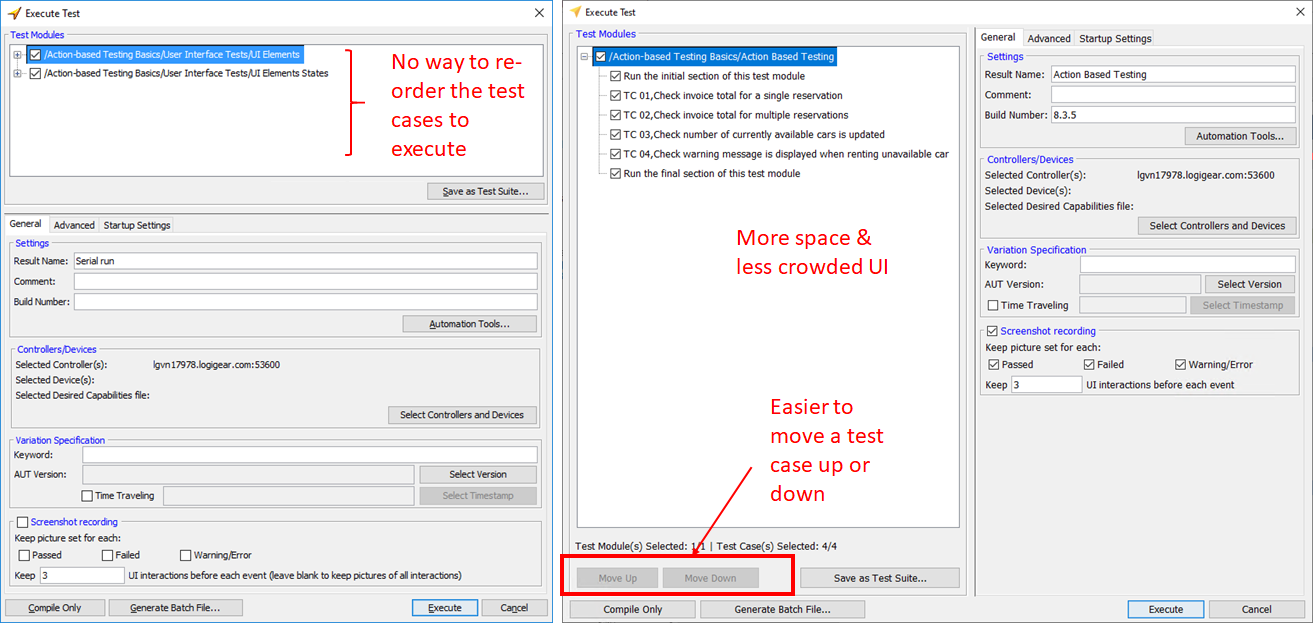
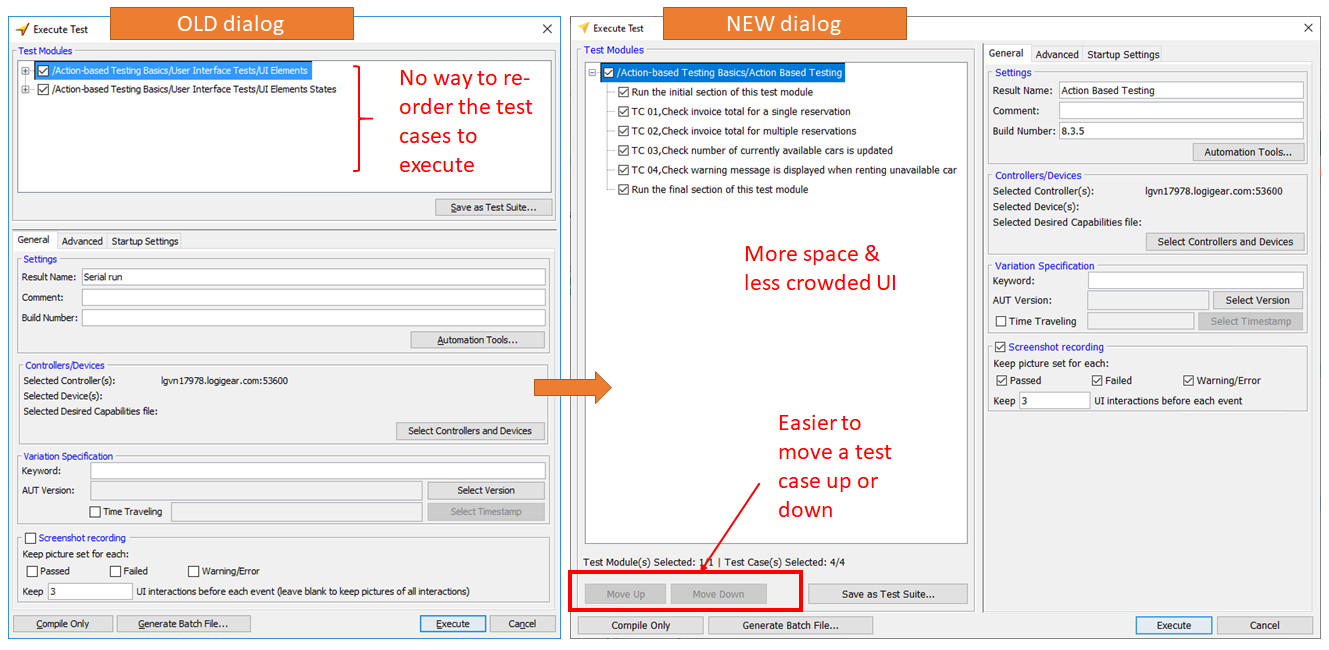
Update Post “2021-05-12-5-tips-for-effective-collaboration-with-your-engineering-team-as-product-manager”

Changed region(s): [[0.0, 0.0, 1.0, 1.0], [0.5621, 0.366, 0.687, 0.4575]]

diff --git a/src/content/posts/2021-05-12-5-tips-for-effective-collaboration-with-your-engineering-team-as-product-manager.md b/src/content/posts/2021-05-12-5-tips-for-effective-collaboration-with-your-engineering-team-as-product-manager.md
@@ -12,56 +12,54 @@ description: As a product manager, our engineering team is the one and only
   effectively and harmoniously with their engineering team.
 featuredImage: /assets/5-tips-for-effective-collaboration-with-engineering-team.png
 ---
-As a product manager, our engineering team is the one and only group of people that we interact with the most. Thus, cultivating a harmonious relationship with our engineering team will help boost our productivity tremendously while saving us a ton of chronic headaches. This blog post contains useful tips that could hopefully help product managers work more effectively and efficiently with their engineering team.
+As a product manager, our engineering team is the single group of people that we interact with the most. Thus, cultivating a harmonious relationship with our engineering team will help boost our productivity tremendously while saving us a ton of chronic headaches. This blog post contains useful tips that could hopefully help product managers work more effectively and efficiently with their engineering team.
 
 > I can’t claim to be the most successful product manager ever. My motto is to “stay hungry and humble” (never let the ego-to-talent ratio out of whack). But I’d still love to contribute my tiny slice of personal experience to the topic. I hope my stories could add some value or at least a fresh perspective to help you improve your craft.
 
 ## \#1. Do the Homework
 
-As a product manager, we don’t have direct authority over the engineering team. Some of my old friends from college or high-school thought the word “manager” in “product manager” meant I was the boss and I could fire anybody on a whim. I wish I could be that powerful. But in fact, that’s not even slightly true. A product manager is not a boss or manager in the traditional sense. 
+As product managers, we don’t have direct authority over the engineering team. Some of my old friends from college or high school thought the word “manager” in “product manager” meant I was the boss and I could fire anybody on a whim. I wish I could be that powerful. But in fact, that’s not even slightly true. A product manager is not a boss or manager in the traditional sense. 
 
 As a product manager, our authority doesn’t come from the *job title* but from the ***insights*** we bring to the table. It could either be a visceral understanding of customer pain points, business acumen, design intuitions, alignment to the company strategy from the very top level (C-suite), user data insights, technical know-how, etc. And how to acquire these insights? It’s simple: do the homework beforehand.
 
-In my early days as an *Associate Product Manager (APM)* around 4 years ago, I used to come into meetings with engineering teams empty-handed. People could sense this lack of preparation miles away. When confronted by thorny questions, I was frustrated and hesitant to give a straight answer. Because I simply didn’t know any better.
+In my early days as an *Associate Product Manager (APM)* around 4 years ago, I used to come into meetings with engineering teams empty-handed. People could sense this lack of preparation miles away. When confronted with thorny questions, I was frustrated and hesitant to give a straight answer. Because I simply didn’t know any better.
 
-But soon afterwards, I finally realized the power of doing the *legwork* beforehand. I knew that there was no other easy way to earn the trust of my engineering team other than proving my value to them. And I could be a value-add to my team in the three most important areas: \[1] customer insights, \[2] technology, and \[3] business context (I'll discuss these areas of knowledge in details in the next tips). From that point on, I never stepped into a product meeting without doing the homework first.
+But soon afterward, I finally realized the power of doing the *legwork* beforehand. I knew that there was no other easy way to earn the trust of my engineering team other than proving my value to them. And I could add value to my team in the three most important areas: *\[1] customer insights, \[2] technology, and \[3] business context* (I'll discuss these areas of knowledge in details in the next tips). From that point on, I never stepped into a product meeting without doing the homework first.
 
-Why preparation pays off exponentially? Because preparations create an aura of "I've got this" around you as a product manager. In other words, better preparations help you establish a reputation of an expert. And everybody loves to work with experts whom they can trust and respect. Lenny Rachitsky included this quality in his *"14 Habits of Highly Effective Product Managers"* tweet below. I've definitely recommended reading it. 
+Why preparation pays off exponentially? Because preparations create an ***aura of "I've got this"*** around you as a product manager. In other words, better preparations help you establish a ***reputation*** of an expert. And everybody loves to work with experts whom they can trust and respect. Lenny Rachitsky included this quality in his *"14 Habits of Highly Effective Product Managers"* tweet below. I've definitely recommended reading it. 
 
-![14 habits of highly effective product managers](/assets/14-habbits-of-great-product-manager.png "14 habits of highly effective product managers")
-
-Source: [Lenny Rachitsky ](https://twitter.com/lennysan/status/1389611792741986305?s=20)
+![14 habits of highly effective product managers](/assets/14-habbits-of-great-product-manager.png "14 habits of highly effective product managers Source: [Lenny Rachitsky ](https://twitter.com/lennysan/status/1389611792741986305?s=20)")
 
 ## \#2. Be the Voice of the Customer 
 
-The biggest component of the "I've got this" aura that is usually expected from product managers is being the voice of (real) customers. When we bring customer perpespetive to the conversation, it usually helps eliminate a lot of ambiguity thus speed things up.
+The biggest component of the "I've got this" aura that is usually expected from product managers is being the voice of (real) customers. When we bring customer perspective to the conversation, it usually helps eliminate a lot of ambiguity thus speed things up.
 
-There are many ways to gain customer insights but I picked three approaches that were most suitable to my situation at the time: \[1] product demos, \[2] interviewing end-users regularly, and \[3] helping Customer Success (CS) with support tickets.
+There are many ways to gain customer insights but I picked three approaches that were most suitable to my situation at the time: *\[1] product demos, \[2] interviewing end-users regularly, and \[3] helping Customer Success (CS) with support tickets.*
 
 ### Product Demos
 
 When I was the Product Owner (PO) of a Scrum team (prior to APM), I rarely talked to the customers and end-users. All so-called “customer insights” I got were just hear-say. When I came to realize this serious problem, I went overboard on customer engagement. One particular channel that I could add value was product demos. 
 
-Usually a group of technical sales engineers in conjunction with a sales person were responsible for all product demos. So I talked to them about new opportunities in the sales pipeline. The first few demos were not to my utmost satisfaction. But later on, they got smoother and smoother. I learned how to better articulate our product values, tailor the product values to the unique situation of the customer (customer benefits), and how to demonstrate product capabilities in real scenarios. And the best part was learning how to answer tough questions directly from customers. Oh boy, they were always surprising. 
+Usually, a group of technical sales engineers in conjunction with a salesperson were responsible for all product demos. So I talked to them about new opportunities in the sales pipeline. The first few demos were not to my utmost satisfaction. But later on, they got smoother and smoother. I learned how to better articulate our product values, tailor the product values to the customer's unique situation (customer benefits), and how to demonstrate product capabilities in real scenarios. And the best part was learning how to answer tough questions directly from customers. Oh boy, they were always surprising. 
 
 ### Interview End-Users Regularly
 
-Besides product demos, another way for product managers to glean customer insights is interview end-users directly. Some of the B2B product managers don't have this luxury because the direct sales team will take over all customer interactions. They are overprotective of the customers and usually want to tightly control customer relationships. This happens for a reason. But most of the time, product managers are able to reach out and talk to customers, either email, phone, Zoom or face-to-face.
+Besides product demos, another way for product managers to glean customer insights is to interview end-users directly. Some of the B2B product managers don't have this luxury because the direct sales team will seize all customer interactions. They are overprotective of the customers and usually want to tightly control customer relationships. This happens for a reason. But most of the time, product managers are able to reach out and talk to customers, either by email, phone, Zoom or face-to-face.
 
-For me, I was able to gain customer insights by syncing with our internal user groups. LogiGear has an interesting dynamic: besides selling test automation tools, LogiGear also provides QA services to clients around the world. These services delivery teams are a good representation of our user base thus a valuable source of insights.
+For me, I was able to gain customer insights by syncing with our internal user groups. LogiGear has an interesting dynamic: besides selling test automation tools, LogiGear also provides QA services to clients around the world. These service delivery teams are a good representation of our user base thus a valuable source of insights.
 
-Since services teams are first-hands end-users of the tool (TestArchitect), syncing with them on a weekly-basis helped me understand how the product was used in real life. These interactions provided me with wisdom nuggets here and there. For instance, I was surprised to find out that one of our GUI dialog was so badly designed that users could not rearrange the order of test execution. They got to cancel the run and create a new run from scratch if they wanted to move a test case up or down. I immediately added the fixes to the very next release.
+Since service teams are first-hand end-users of the tool ([TestArchitect](https://www.testarchitect.com)), syncing with them on a weekly basis helped me understand how the product was used in real life. These interactions provided me with wisdom nuggets here and there. For instance, I was surprised to find out that one of our UI dialogs was so badly designed that users could not rearrange the order of test execution. They got to cancel the run and create a new run from scratch if they wanted to move a test case up or down. I immediately added the fixes to the very next release.
 
 ![An example of a bad UX design](/assets/old-new-execute-test-dialogs.png "An example of a bad UX design")
 
 ### Support Tickets
 
-Lastly, the most accessible source of customer insights for product managers: *support tickets*. The sales team can monopolize other communication channels with the customers but not this one. Now it only comes down to whether the product manager has the time and energy to immerse themselves to the feedback of end-users.
+Lastly, the most accessible source of customer insights for product managers: *support tickets*. The sales team can monopolize other communication channels with the customers but not this one. Now it only comes down to whether the product manager has the time and energy to immerse themselves in the feedback of end-users.
 
-For several months, I put in the extra effort to read each and every support ticket on the customer support portal to directly feel the pain points of users -- described in their own words. This could sound like sidelining the Customer Success team and undermining their value to the organization. At first, I faced a certain push back from the Customer Support Manager but later on we got along just fine. The lessons I've learned from reading and replying to support tickets are:
+For several months, I put in the extra effort to read each and every support ticket on the customer support portal. Doing so helped me directly feel the pains of users -- described in their own words. It could sound like sidelining the Customer Success team and undermining their value to the organization. At first, I faced a certain push back from the Customer Support Manager but later on, we got along just fine. The lessons I've learned from reading and replying to support tickets are:
 
-* We could exercise our "customer empathy" muscles & refraining from judging too soon.
-* And above all, the product manager can practice "falling in love with the problem, not the solution". 
+* We could exercise our "customer empathy" muscles & refrain from judging too soon.
+* And above all, the product manager can practice ***"falling in love with the problem, not the solution"***. 
 
 It's a dangerous trap for PM to work backward from a preconceived solution. Customers usually posted a ticket dictating the solution they needed. But actually, once we dig a little deeper, there are always more nuances behind the scene. If product managers mindlessly take whatever the customer says and put it in the roadmap, we’d encounter tremendous opposition from the engineering team and eventually hurt the business by diluting the team’s focus. 
 
@@ -69,23 +67,25 @@ Most importantly, we're not empowering the engineers. No engineering team wants 
 
 ## \#3. Develop Passion for Technology 
 
-Engineers respect people with technology prowess, *period*. They will immediately flip their ***“bozo bit”*** if we can’t make heads or tails of an object, a property, and a class. Or if we cannot tell the differences between *static site generator, single page application (SPA), progressive web app (PWA) and a normal web page*. And once lost, it’s arduous to change their mind and regain their trust later on.
+Engineers respect people with technology prowess, *period*. They will immediately flip their ***“bozo bit”*** if we can’t make heads or tails of an object, a property, and a class. Or if we cannot tell the differences between *static site generator, single page application (SPA), progressive web app (PWA), and a normal web page*. And once lost, it’s arduous to change their mind and regain their trust later on.
 
-As product managers, if we want to get into the “inner circles” and be considered “equals” by engineers, we must brush up our technical skills. I know some business-focused product managers would scream otherwise. But hear me out, we don’t need to get down to every line of code. Understanding technology at the conceptual level is good enough. 
+As product managers, if we want to get into the “inner circles” and be considered “equals” by engineers, we must brush up on our technical skills. I know some business-focused product managers would scream otherwise. But hear me out, we don’t need to get down to every line of code. Understanding technology at the conceptual level is good enough. 
 
 To give a little background, I’m a technically inclined product manager. In the early 2000s when I was 11 years old, a co-worker of my mom gifted me her old computer (an *Intel 80386* with *256 megabytes* of HDD). It was not much but it opened up a whole new wonderful world in front of my eyes. Twenty years ago in a third-world country like Vietnam, having a computer was truly a privilege. I was fascinated by the old computer. I loved how easy it was to give the computer a command and it obediently executed without any questions. 
 
-![An Intel 80386 Computer](/assets/intel-386.jpg "An Intel 80386 Computer that looks very similar to the one I had- Credit: https://retrospector78.wordpress.com/2019/10/02/laser-386-pc/")
+![An Intel 80386 Computer](/assets/intel-386.jpg "An Intel 80386 Computer that looks very similar to the one I had -- Credit: https://retrospector78.wordpress.com/2019/10/02/laser-386-pc/")
 
 That’s why I started programming in Pascal at an early age compared to my peers. Then I got into a program for “gifted” kids specializing in Pascal programming. When I entered university, programming courses were just a breeze thanks to the early head start. Thus, I graduated as a Valedictorian majoring in Software Engineering. I’m forever indebted to this angel lady.
 
-Backgrounds in programming, software engineering or computer science are a big advantage when communicating with engineering teams. But that’s not to say, non-tech backgrounds cannot do so. IMO, the key is to be a sponge that soaks in as much technical knowledge as possible day in and day out. For instance, I subscribe to technical newsletters like the The New Stack, Techmeme, Tech Crunch, etc. and frequently listen to podcasts like The New Stack Makers, a16z, Syntax, Recode Daily, Cyberwire Daily, Changelog, Test Guild, Tech Stuff, etc. Constantly immersing myself in tech helps me keep up with the mega-trends as well as understand the tradeoffs and limitations of certain technologies.
+Backgrounds in programming, software engineering or computer science are a big advantage when communicating with engineering teams. But that’s not to say, non-tech backgrounds cannot do so. IMO, the key is to be a sponge that soaks in as much technical knowledge as possible day in and day out. For instance, I subscribe to technical newsletters like The New Stack, Techmeme, Tech Crunch, etc. and frequently listen to podcasts like The New Stack Makers, a16z, Syntax, Recode Daily, Cyberwire Daily, Changelog, Test Guild, Tech Stuff, etc. Constantly immersing myself in tech helps me keep up with the mega-trends as well as understand the tradeoffs and limitations of certain technologies.
 
 ## \#4. Provide Business Context not Solutions
 
-A software engineering background helps me a lot in discussing technical problems with my Engineering team. But it’s also a big disadvantage when it comes to business acumen. Compared to an MBA, I got zero confidence in providing business insights to the team. Engineering teams are technical geeks (in a good way). They excel at building software and solving problems. But they need to know for sure that they are not only building things *right* but also building the *right* thing. They totally rely on the product manager in this regard.
+A software engineering background helps me a lot in discussing technical problems with my Engineering team. But it’s also a big disadvantage when it comes to business acumen. Compared to an MBA, I got zero confidence in providing business insights to the team. Engineering teams are technical geeks (in a good way). They excel at building software and solving problems. But they need to know for sure that they are not only building things *right* but also building the *right* things. They totally rely on the product manager in this regard.
 
-Providing the business context including market dynamics, competitive analysis, the business outcomes that the organization is pushing for, etc. is a key value-add of product managers. When presenting to the team, we have to make sure we highlight system thinking behind every product decision. For instance, if we prioritize metrics like increasing Acquisition, we’ll inevitably hurt Retention. A tradeoff has to be made. We can’t have it both ways.
+Providing the business context including market dynamics, competitive analysis, the business outcomes that the organization is pushing for, etc. is a key value-add of product managers. When presenting to the team, we have to make sure we highlight system thinking behind every product decision. For instance, if we prioritize metrics like increasing Acquisition, we’ll inevitably hurt Retention. A trade-off has to be made. We can’t have it both ways.
+
+![Leslie Kilgore (Netflix) - Lea with context, not control](/assets/leslie-quotes.png "Leslie Kilgore (Netflix) - Lea with context, not control")
 
 Since I cared about my job and I wanted to be better every day, I made a commitment to learn more about business. I took online courses like Creating a Business Plan, Financial Modeling for Non-Financial Managers, Advanced Product Management, Digital Marketing, etc. on Udemy and LinkedIn Learning. I taught myself useful models like Porter’s 5 Forces, SWOT Analysis, Positioning in Marketing, etc.
 
@@ -96,7 +96,7 @@ Among these topics, I found that Marty Cagan’s framework of Product Discovery 
 3. **Feasibility risk** -- Can we build it in a cost-effective way?
 4. **Business viability risk** -- Are the customers willing to pay so that we can sustain the business?
 
-I won’t dive into the details of this framework since it’s out of scope of this blog post. If you want to learn more, check out Marty’s book -- [Inspired: How to Create Tech Products Customers Love](https://www.goodreads.com/book/show/35249663-inspired). 100% recommended. 
+I won’t dive into the details of this framework since it’s out of the scope of this blog post. If you want to learn more, check out Marty’s book -- [Inspired: How to Create Tech Products Customers Love](https://www.goodreads.com/book/show/35249663-inspired). 100% recommended. 
 
 > Disclaimer: No affiliation whatsoever. 
 
